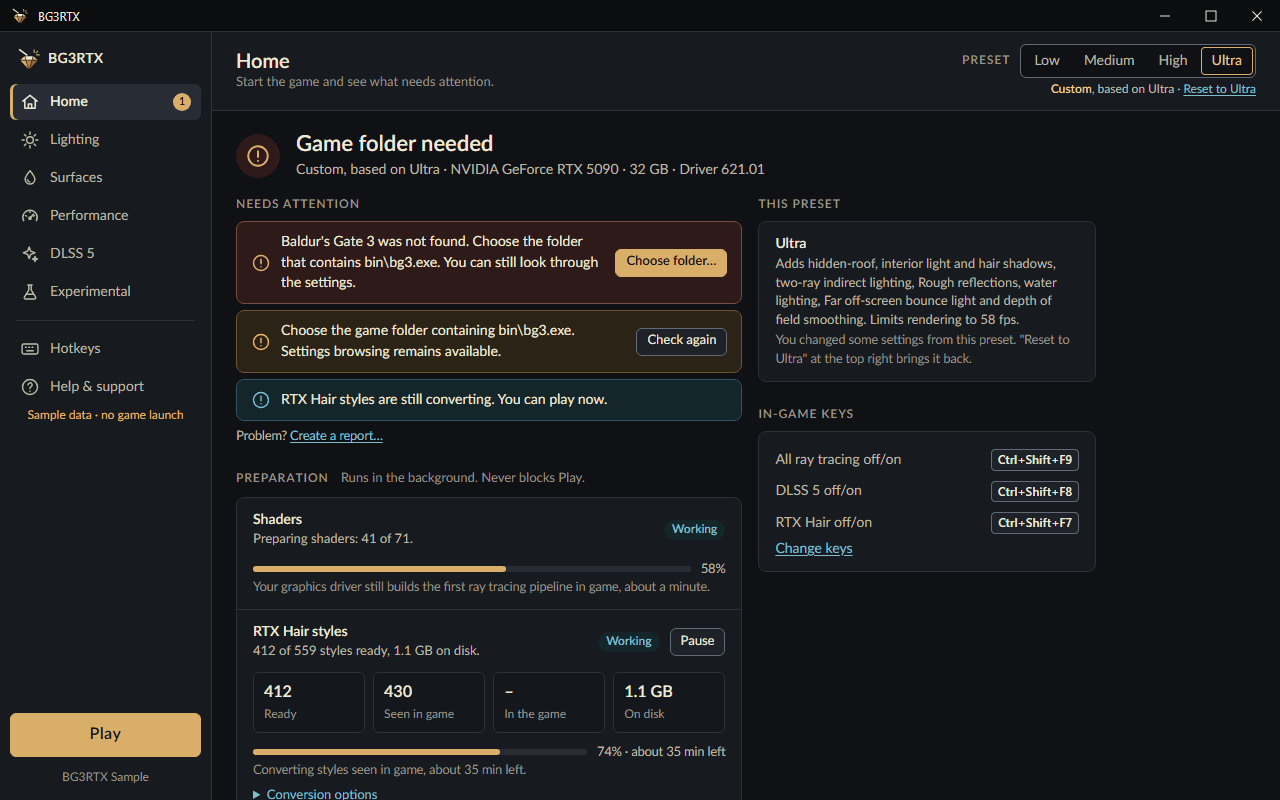
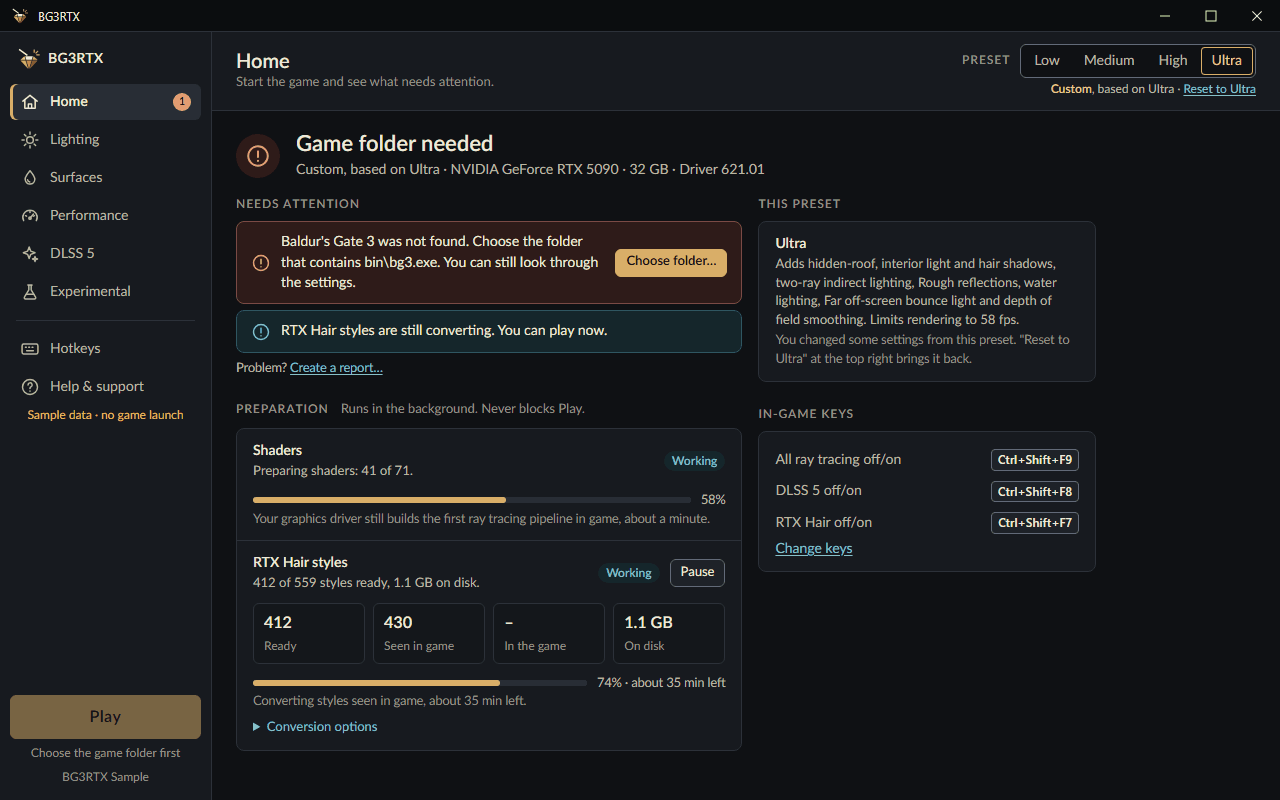
Launcher UI phase 4: keyboard and screen-reader pass, status strip as a live region, docs
One Tab stop per group of choices with arrow keys that move without writing (settings, presets, conversion
options, sidebar with Up and Down), Home and End, Ctrl+Z for Undo. The status strip stays in the accessibility
tree while empty; child rows keep their full name for screen readers; the focused row is marked. Slider
Off/On no longer wraps. LAUNCHER_QA, PROPOSAL and the progress fragment describe the instant-apply launcher.
Full build.ps1 -Test: 226 of 226.

Changed region(s): [[0.1875, 0.4062, 0.5938, 1.0], [0.0, 0.8438, 0.1562, 0.9688], [0.5312, 0.5625, 0.5625, 0.5938]]

diff --git a/tools/launcher/ui/app.js b/tools/launcher/ui/app.js
@@ -89,12 +89,21 @@ const hotkeyFor={dlss5_nr:'hotkey_dlss5',exp_hair_groom_primary:'hotkey_rtx_hair
 const hotkeyName=id=>(hotkeyInfo[id]||[id])[0];
 function openSection(id,focus,select) {section=id;if(select)selected[id]=select;render(state);$('main').scrollTop=0;if(focus)$(focus)?.focus?.();}
 function el(tag, className, text) { const e=document.createElement(tag);if(className)e.className=className;if(text!==undefined)e.textContent=text;return e; }
-function send(type, extra={}) { if(sample) { $('changes').hidden=false;$('status').textContent='Sample preview: actions do not change settings or launch the game';return; } window.chrome?.webview?.postMessage({type,...extra}); }
+function send(type, extra={}) { if(sample) { $('changes').className='';$('status').textContent='Sample preview: actions do not change settings or launch the game';return; } window.chrome?.webview?.postMessage({type,...extra}); }
 function measured(text) {return !!text && !/unknown|not measured|not detected|unavailable/i.test(text);}
 function pill(text,kind) {return el('span','pill '+(kind||''),text);}
 function badge(text,kind,title) {const b=el('span','badge'+(kind?' '+kind:''),text);if(title)b.title=title;return b;}
 function linkButton(id,text,fn) {const b=el('button','btn link-btn',text);b.id=id;b.onclick=fn;return b;}
 function showDialog(d) {if(!d.open)d.showModal();}
+// Keyboard: one Tab stop per group of choices (the current choice); the arrow keys move between the choices and
+// Enter or Space chooses. Moving never writes a setting.
+function rove(group,vertical) {
+ const buttons=[...group.querySelectorAll('button')];
+ const current=buttons.find(b=>/(^| )(on|base)( |$)/.test(b.className||'')&&!b.disabled)||buttons.find(b=>!b.disabled);
+ buttons.forEach(b=>{b.tabIndex=b===current?0:-1;
+  b.onkeydown=e=>{const step=(vertical?{ArrowDown:1,ArrowUp:-1}:{ArrowRight:1,ArrowDown:1,ArrowLeft:-1,ArrowUp:-1})[e.key]||(e.key==='Home'?'first':e.key==='End'?'last':0);if(!step)return;e.preventDefault();
+   const live=buttons.filter(x=>!x.disabled),next=step==='first'?live[0]:step==='last'?live[live.length-1]:live[(live.indexOf(b)+step+live.length)%live.length];if(next)next.focus();};});
+}
 const releaseOptIn=()=>!!state&&!state.developer&&!!state.experimental;
 const awaiting=ch=>/experimental|awaiting/.test(ch.maturity||'');
 // A release setting whose every choice above the first is unqualified belongs on the Experimental page (Low-latency
@@ -148,7 +157,7 @@ function choiceControl(s,control,describedBy) {
  s.choices.forEach(ch=>{const text=plainLabel(s,ch.label),on=ch.value===s.value,b=el('button',on?'on':'',text);b.disabled=ch.enabled===false;b.title=[ch.apply,ch.reason].filter(Boolean).join('. ');b.setAttribute('aria-label',text+'; '+ch.apply);b.setAttribute('aria-pressed',on?'true':'false');b.onclick=()=>send('set',{id:s.id,value:ch.value});seg.append(b);});
  control.className+=' choices';
  if(s.value<0)control.append(el('span','help-copy','Custom value kept'));
- control.append(seg);
+ control.append(seg);rove(seg);
 }
 // The control of one setting and its unmet-requirements line. Ids are control-<id>-<n>.
 function settingControl(s) {
@@ -160,7 +169,7 @@ function settingControl(s) {
   choiceControl(s,control,needs.id);
  } else if(s.min!==undefined&&s.max>s.min) {
   const isOff=s.hasOff&&s.value===0;
-  if(s.hasOff){const seg=el('div','seg');seg.setAttribute('role','group');seg.setAttribute('aria-label',name);const off=el('button',isOff?'on':'','Off');off.setAttribute('aria-pressed',String(isOff));off.onclick=()=>send('set',{id:s.id,value:0});const on=el('button',!isOff?'on':'','On');on.setAttribute('aria-pressed',String(!isOff));on.onclick=()=>send('set',{id:s.id,value:isOff?s.min:s.value});seg.append(off,on);control.append(seg);}
+  if(s.hasOff){const seg=el('div','seg');seg.setAttribute('role','group');seg.setAttribute('aria-label',name);const off=el('button',isOff?'on':'','Off');off.setAttribute('aria-pressed',String(isOff));off.onclick=()=>send('set',{id:s.id,value:0});const on=el('button',!isOff?'on':'','On');on.setAttribute('aria-pressed',String(!isOff));on.onclick=()=>send('set',{id:s.id,value:isOff?s.min:s.value});seg.append(off,on);control.append(seg);rove(seg);}
   const valueText=value=>String(value)+(s.unit?(s.unit==='%'?'':' ')+s.unit:'');
   // The value follows the thumb; the setting is sent once, when the thumb is released (change), not while dragging.
   const i=el('input');i.type='range';i.min=s.min;i.max=s.max;i.step=s.step||1;i.value=isOff?s.min:s.value;i.disabled=isOff;i.setAttribute('aria-label',name);i.setAttribute('aria-valuetext',isOff?'Off':valueText(s.value));const out=el('output','range-value',isOff?'Off':valueText(s.value));i.oninput=()=>{out.textContent=valueText(i.value);i.setAttribute('aria-valuetext',valueText(i.value));};i.onchange=()=>send('set',{id:s.id,value:Number(i.value)});control.className+=' range';control.append(i,out);
@@ -242,7 +251,7 @@ function runtimeFile(s) {
 // A group: small caps heading and one panel. `collapsed` groups are a disclosure that remembers its state.
 function group(title,lead,children,opts={}) {
  const box=el('div','rows');box.append(...children);
- if(opts.collapsed){const d=el('details','group'),sum=el('summary');d.id='group-'+(opts.id||title);sum.id='group-summary-'+(opts.id||title);sum.append(el('h2','group-title',title));if(lead)sum.append(el('span','group-lead',lead));restoreDisclosure(d,opts.open);d.append(sum,box);return d;}
+ if(opts.collapsed){const d=el('details','group'),sum=el('summary');const slug=String(opts.id||title).replace(/[^A-Za-z0-9]+/g,'-');d.id='group-'+slug;sum.id='group-summary-'+slug;sum.append(el('h2','group-title',title));if(lead)sum.append(el('span','group-lead',lead));restoreDisclosure(d,opts.open);d.append(sum,box);return d;}
  const g=el('section','group'),head=el('div','group-head');head.append(el('h2','group-title',title));if(lead)head.append(el('p','group-lead',lead));
  if(opts.id)g.id=opts.id;g.append(head,box);return g;
 }
@@ -359,7 +368,7 @@ function hairJob(prep) {
  const why=el('p','needs');why.id='prep-source-reason';why.append(icon('Needs'),el('span','',reason));why.hidden=!reason||all;
  [['Styles seen in game',0],['All styles',1]].forEach(([label,value])=>{const on=all===!!value,b=el('button',on?'on':'',label);b.id='prep-source-'+value;b.setAttribute('aria-pressed',String(on));b.setAttribute('aria-describedby',why.id);
   if(value&&reason&&!all){b.disabled=true;b.title=reason;}b.onclick=()=>send('prep',{action:'convertAll',value});seg.append(b);});
- const srcRow=el('div','option-row');srcRow.append(seg);src.append(srcLabel,srcRow,why);
+ rove(seg);const srcRow=el('div','option-row');srcRow.append(seg);src.append(srcLabel,srcRow,why);
  // granny2.dll: the player's own copy; never shipped.
  const g=prep.granny||{},dll=el('div','granny');dll.id='prep-granny';
  const path=el('p','path',g.path?g.path:'granny2.dll: not chosen');path.id='prep-granny-path';
@@ -373,7 +382,7 @@ function hairJob(prep) {
  const when=el('div','option-group'),whenLabel=el('span','option-label','When to convert');whenLabel.id='prep-when-label';
  const ws=el('div','seg prep-when');ws.setAttribute('role','group');ws.setAttribute('aria-labelledby',whenLabel.id);
  [['Game closed',0],['Also while playing',1]].forEach(([label,value])=>{const on=!!prep.whilePlaying===!!value,b=el('button',on?'on':'',label);b.id='prep-when-'+value;b.setAttribute('aria-pressed',on?'true':'false');b.onclick=()=>send('prep',{action:'whilePlaying',value});ws.append(b);});
- const whenRow=el('div','option-row');whenRow.append(ws);when.append(whenLabel,whenRow,el('p','cost','While playing, it uses one core at low priority.'));opts.append(when);
+ rove(ws);const whenRow=el('div','option-row');whenRow.append(ws);when.append(whenLabel,whenRow,el('p','cost','While playing, it uses one core at low priority.'));opts.append(when);
  box.append(opts);
  return box;
 }
@@ -390,6 +399,7 @@ function shaderJob(prep) {
 function presetButtons(root) {
  root.replaceChildren();
  ['Low','Medium','High','Ultra'].forEach((name,index)=>{const on=state.preset===index,b=el('button',on?(state.custom?'base':'on'):'',name);b.id='preset-'+index;b.setAttribute('aria-pressed',on&&!state.custom?'true':'false');b.title=[state.presetDescriptions?.[index],index===state.recommendedPreset?'Suggested for this GPU; performance varies.':''].filter(Boolean).join('\n');b.onclick=()=>send('preset',{value:index});root.append(b);});
+ rove(root);
  const note=$('preset-note');note.replaceChildren();
  const name=['Low','Medium','High','Ultra'][state.preset]||'';
  if(state.custom){const c=el('span','custom-preset','Custom');c.setAttribute('aria-label','Custom settings');note.append(c,el('span','',', based on '+name+' · '),linkButton('preset-reset','Reset to '+name,()=>send('preset',{value:state.preset})));}
@@ -513,6 +523,7 @@ function renderNavigation() {
   if(id==='Home'&&state.gamePath===''){const n=el('span','nav-count','1');n.title='1 problem';b.append(n);}
   else if(id==='Home'&&busy){const d=el('span','nav-dot');d.title='Preparation is running';b.append(d);}
   b.onclick=()=>openSection(id);nav.append(b);});
+ rove(nav,true);
  if(sample)nav.append(el('div','sample-label','Sample data · no game launch'));
 }
 function render(next) {
@@ -543,7 +554,7 @@ function render(next) {
 function renderFooter() {
  const n=state.notice||{},also=(n.also||[]).length?' Also changed: '+n.also.join('; ')+'.':'';
  const text=n.text?n.text+'.'+also:state.status||'';
- $('changes').hidden=!text;$('status').textContent=text;
+ $('changes').className=text?'':'idle';$('status').textContent=text;
  $('undo').hidden=!n.undo;$('dismiss').hidden=!n.text;
 }
 function renderReport() {
@@ -551,12 +562,15 @@ function renderReport() {
  const root=$('report-preview'),notice=state.status&&/report|package/i.test(state.status)?state.status:'';
  const signature=JSON.stringify([r,notice]);if(signature===reportSignature){showDialog(d);return;}reportSignature=signature;rememberDisclosures(root);root.replaceChildren();if(r.message)root.append(el('p','help-copy',r.message));if(state.status&&/report|package/i.test(state.status))root.append(el('p','notice',state.status));const files=r.files||[];if(files.length){root.append(el('h3','','Preview · '+files.length+' files · '+(r.bytes||0).toLocaleString()+' bytes'));const ul=el('ul','report-list');files.forEach(f=>{const li=el('li');li.append(el('b','',f.name+' · '+f.size.toLocaleString()+' bytes'));if(f.note)li.append(el('p','',f.note));if(f.binary){ul.append(li);return;}const details=el('details'),summary=el('summary','','View file contents');details.id='report-file-'+encodeURIComponent(f.name);summary.id='report-summary-'+encodeURIComponent(f.name);restoreDisclosure(details);details.append(summary,el('pre','',f.text||''));li.append(details);ul.append(li);});root.append(ul);}$('export-report').hidden=!files.length;$('prepare-report').textContent=files.length?'Refresh preview':'Preview files';showDialog(d);
 }
-$('undo').onclick=()=>send('undo');$('dismiss').onclick=()=>send('dismiss');$('play').onclick=()=>send('play');
+$('undo').onclick=()=>send('undo');$('undo').title='Undo the last change (Ctrl+Z)';
+// Ctrl+Z undoes the last change while the bridge offers it (not inside a text field).
+if(document.addEventListener)document.addEventListener('keydown',e=>{if((e.ctrlKey||e.metaKey)&&!e.shiftKey&&!e.altKey&&String(e.key).toLowerCase()==='z'&&state?.notice?.undo&&!/^(text|textarea)$/i.test(e.target?.type||'')&&!$('report-dialog').open){e.preventDefault();send('undo');}});
+$('dismiss').onclick=()=>send('dismiss');$('play').onclick=()=>send('play');
 $('close-report').onclick=()=>{$('report-dialog').close();send('closeReport');};$('report-dialog').addEventListener('cancel',()=>send('closeReport'));$('prepare-report').onclick=()=>{if(!sample){$('report-progress').hidden=false;$('report-progress').textContent='Preparing report…';$('cancel-report').hidden=false;$('prepare-report').disabled=true;}send('prepareReport',{issue:$('issue').value,logs:$('include-logs').checked,settings:$('include-settings').checked,system:$('include-system').checked,save:!!$('include-save').checked});};$('cancel-report').onclick=()=>send('cancelReport');$('export-report').onclick=()=>send('exportReport');
 window.chrome?.webview?.addEventListener('message',e=>{const data=typeof e.data==='string'?JSON.parse(e.data):e.data;if(data.type==='state'){render(data);if(sample)reviewView(true);}else if(data.type==='progress'){$('report-progress').hidden=false;$('report-progress').textContent='Preparing report: '+data.done+' / '+data.total;$('cancel-report').hidden=false;}});
 // Review views (--screenshot-view) adjust the sample, or the host's review state, before rendering again.
 function reviewView(host) {
- {if(sampleView==='error')state.writeError={text:'Settings not saved. Nothing was changed.\nThe file is in use by another application (Windows error 32). Close it and try again.',retry:true};if(sampleView==='notice'){state.settings.find(s=>s.id==='exp_hair_groom_primary').value=0;}if(sampleView==='notice')state.notice={text:'RTX Hair: On \u2192 Off',also:['Strand hair edge resolve: Analytic coverage \u2192 Off'],anchor:'exp_hair_groom_primary',undo:true};if(sampleView==='missing'&&!host){state.gamePath='';state.compatibility.warnings=['Choose the game folder containing bin\\bg3.exe. Settings browsing remains available.'];}if(sampleView==='probe'&&!host){state.compatibility={gpu:'Graphics unknown',vram:'Unknown',driver:'Unknown',warnings:['Graphics compatibility could not be checked. Recheck graphics or choose an adapter in Help & support.'],adapters:[{value:0,label:'Discrete graphics adapter'},{value:1,label:'Integrated graphics adapter'}],selected:-1};}render(state);}
+ {if(sampleView==='error')state.writeError={text:'Settings not saved. Nothing was changed.\nThe file is in use by another application (Windows error 32). Close it and try again.',retry:true};if(sampleView==='notice'){state.settings.find(s=>s.id==='exp_hair_groom_primary').value=0;}if(sampleView==='notice')state.notice={text:'RTX Hair: On \u2192 Off',also:['Strand hair edge resolve: Analytic coverage \u2192 Off'],anchor:'exp_hair_groom_primary',undo:true};if(sampleView==='missing'&&!host){state.gamePath='';state.canPlay=false;}if(sampleView==='probe'&&!host){state.compatibility={gpu:'Graphics unknown',vram:'Unknown',driver:'Unknown',warnings:['Graphics compatibility could not be checked. Recheck graphics or choose an adapter in Help & support.'],adapters:[{value:0,label:'Discrete graphics adapter'},{value:1,label:'Integrated graphics adapter'}],selected:-1};}render(state);}
  if(sampleView==='restart'){state.restartNeeded=true;state.restartCount=2;state.restartNames=['Hair shadows','Water lighting'];state.restartBanner='Restart the game to apply: Hair shadows, Water lighting.';state.notice={text:'Water lighting: Off \u2192 Reflections (after a game restart)',also:[],anchor:'exp_water',undo:true};render(state);}
  if((query.has('report')||sampleView==='report')&&!state.report?.files?.length){state.report={visible:true,privacy:'Creates a ZIP on your PC with BG3RTX logs, graphics settings, version and system graphics details. Logs may contain file paths. We remove common personal path details, but you should review the files before sharing. Nothing is uploaded. Screenshots and crash dumps are excluded; your latest save is added only if you tick it.',files:[{name:'CONTENTS.txt',size:248,text:'Sample preview only. No files have been collected.'},{name:'graphics.txt',size:112,text:'Sample adapter: NVIDIA GeForce RTX 5090\nDriver: 621.01\nAdapter used by the game: unconfirmed'}],bytes:360};renderReport();}
  if(sampleView==='experimental'||query.has('bottom'))$('main').scrollTop=$('main').scrollHeight;

diff --git a/tests/launcher_ui_test.js b/tests/launcher_ui_test.js
@@ -66,13 +66,13 @@ render(fixture);
  const source=fs.readFileSync('tools/launcher/ui/app.js','utf8');
  for(const gone of ["send('save'","send('discard'","send('confirm'","send('cancel'","unsavedCount","state.preview"])assert(!source.includes(gone),gone+' left in app.js');
  // Nothing to say: the status strip is hidden. A message from the bridge shows it, without Undo.
- render({...fixture,status:''});assert(ids.get('changes').hidden,'status strip hidden when there is nothing to say');
- render({...fixture,status:'Report saved on your PC.'});assert(!ids.get('changes').hidden&&ids.get('status').textContent==='Report saved on your PC.'&&ids.get('undo').hidden&&ids.get('dismiss').hidden);
+ render({...fixture,status:''});assert.strictEqual(ids.get('changes').className,'idle','status strip out of sight when there is nothing to say');
+ render({...fixture,status:'Report saved on your PC.'});assert(ids.get('changes').className===''&&ids.get('status').textContent==='Report saved on your PC.'&&ids.get('undo').hidden&&ids.get('dismiss').hidden);
  // A change: what changed, what changed with it, Undo and Dismiss; the same list sits in the row that was clicked.
  const notice={text:'RTX Hair: On → Off',also:['Strand hair edge resolve: Analytic coverage → Off'],anchor:'exp_hair_groom_primary',undo:true};
  render({...fixture,status:'',notice});
  assert.strictEqual(ids.get('status').textContent,'RTX Hair: On → Off. Also changed: Strand hair edge resolve: Analytic coverage → Off.');
- assert(!ids.get('changes').hidden&&!ids.get('undo').hidden&&!ids.get('dismiss').hidden);
+ assert(ids.get('changes').className===''&&!ids.get('undo').hidden&&!ids.get('dismiss').hidden);
  ids.get('undo').onclick();assert.deepStrictEqual(msg(),{type:'undo'});
  ids.get('dismiss').onclick();assert.deepStrictEqual(msg(),{type:'dismiss'});
  go('Lighting');
@@ -228,6 +228,30 @@ for(const id of ['box_lights','exp_hidden_surface','hair_distant_detail','hair_m
  assert(ids.get('hotkey_rtx_hair'),'RTX Hair hotkey on the Hotkeys page');
  render(fixture);go('Lighting');
 }
+// Keyboard: a group of choices is one Tab stop (the current choice); arrows move focus between choices without
+// writing; Home and End jump; a disabled choice is skipped. The navigation works the same with Up and Down.
+{
+ const gi=fixture.settings.find(s=>s.id==='gi'),buttons=ids.get('card-gi').querySelectorAll('button').filter(b=>/^control-gi-/.test(b.id));
+ assert.deepStrictEqual(buttons.map(b=>b.tabIndex),buttons.map((_,i)=>i===gi.value?0:-1),'one Tab stop per group');
+ const key=k=>({key:k,preventDefault(){}});let before=sent.length;
+ buttons[gi.value].focus();buttons[gi.value].onkeydown(key('ArrowRight'));
+ assert.strictEqual(document.activeElement,buttons[(gi.value+1)%buttons.length]);
+ document.activeElement.onkeydown(key('ArrowLeft'));assert.strictEqual(document.activeElement,buttons[gi.value]);
+ buttons[0].onkeydown(key('ArrowLeft'));assert.strictEqual(document.activeElement,buttons[buttons.length-1],'wraps');
+ buttons[1].onkeydown(key('Home'));assert.strictEqual(document.activeElement,buttons[0]);buttons[0].onkeydown(key('End'));assert.strictEqual(document.activeElement,buttons[buttons.length-1]);
+ assert.strictEqual(sent.length,before,'moving between choices writes nothing');
+ render({...fixture,settings:fixture.settings.map(s=>s.id==='gi'?{...s,value:0,choices:s.choices.map((c,i)=>({...c,enabled:i!==1}))}:s)});
+ const limited=ids.get('card-gi').querySelectorAll('button').filter(b=>/^control-gi-/.test(b.id));
+ limited[0].onkeydown(key('ArrowRight'));assert.strictEqual(document.activeElement,limited[2],'a disabled choice is skipped');
+ render(fixture);
+ const presets=ids.get('presets').children;assert.deepStrictEqual(presets.map(b=>b.tabIndex),presets.map((_,i)=>i===fixture.preset?0:-1));
+ const nav=ids.get('navigation').children.filter(e=>e.tagName==='button');
+ assert.deepStrictEqual(nav.map(b=>b.tabIndex),nav.map(b=>b.id==='nav-Lighting'?0:-1));
+ ids.get('nav-Lighting').onkeydown(key('ArrowDown'));assert.strictEqual(document.activeElement,ids.get('nav-Surfaces'));
+ ids.get('nav-Surfaces').onkeydown(key('ArrowRight'));assert.strictEqual(document.activeElement,ids.get('nav-Surfaces'),'the sidebar uses Up and Down only');
+ assert(/Ctrl\+Z/.test(ids.get('undo').title));
+ document.activeElement=null;
+}
 // The detail panel shows the selected row; selecting another row does not rebuild the page.
 {
  const first=ids.get('card-rt_geometry');assert(/selected/.test(first.className),'the first row is selected');
@@ -258,9 +282,9 @@ for(const id of ['box_lights','exp_hidden_surface','hair_distant_detail','hair_m
 go('Performance');
 {
  assert.deepStrictEqual(page().filter(e=>e.className==='group-title').map(e=>e.textContent),['Frame rate','Tracing speed']);
- const d=ids.get('group-Tracing speed');assert(d&&d.tagName==='details'&&!d.open,'Tracing speed starts collapsed');
+ const d=ids.get('group-Tracing-speed');assert(d&&d.tagName==='details'&&!d.open,'Tracing speed starts collapsed');
  assert(all(d).includes(ids.get('card-exp_gi_rt_pipeline'))&&/\bchild\b/.test(ids.get('card-exp_gi_rt_pipeline_reorder').className));
- d.open=true;render(fixture);assert(ids.get('group-Tracing speed').open,'disclosure collapsed on bridge update');
+ d.open=true;render(fixture);assert(ids.get('group-Tracing-speed').open,'disclosure collapsed on bridge update');
  assert(onPage('experimental-pointer')&&/hidden/.test(text(ids.get('experimental-pointer'))),'the page says where its experimental options are');
  ids.get('experimental-open').onclick();assert.strictEqual(ids.get('nav-Experimental').attributes['aria-current'],'page');
 }

diff --git a/tools/launcher/ui/index.html b/tools/launcher/ui/index.html
@@ -11,7 +11,7 @@
 <header id="header"><div class="page-head"><h1 id="page-title"></h1><p id="page-lead"></p></div><div class="preset-block"><div class="preset-group"><span class="label" id="preset-label">Preset</span><div id="presets" class="presets seg" role="group" aria-labelledby="preset-label"></div></div><p id="preset-note"></p></div></header>
 <div id="warnings"></div>
 <div class="body" id="body-grid"><main id="main" tabindex="-1"><div id="section-content"></div></main><aside id="detail" aria-label="Details of the selected setting"></aside></div>
-<footer id="changes" hidden><div class="status" role="status" aria-live="polite"><span class="dot" aria-hidden="true"></span><span id="status">Loading settings…</span></div><button id="undo" class="btn small" hidden>Undo</button><button id="dismiss" class="btn small" hidden>Dismiss</button></footer>
+<footer id="changes" class="idle"><div class="status" role="status" aria-live="polite"><span class="dot" aria-hidden="true"></span><span id="status">Loading settings…</span></div><button id="undo" class="btn small" hidden>Undo</button><button id="dismiss" class="btn small" hidden>Dismiss</button></footer>
 </div></div>
 <dialog id="report-dialog" aria-labelledby="report-title"><h2 id="report-title">Report a problem</h2><p id="privacy"></p><p id="logging-hint" class="help-copy" hidden></p><div id="report-request"><label for="issue">What happened? <span class="help-copy">(optional)</span></label><textarea id="issue" maxlength="4000" placeholder="Tell us what you were doing and what went wrong."></textarea><div class="contents"><label><input id="include-logs" type="checkbox" checked> Logs</label><label><input id="include-settings" type="checkbox" checked> Graphics settings</label><label><input id="include-system" type="checkbox" checked> Graphics hardware</label></div><label class="save-option"><input id="include-save" type="checkbox"> Include my latest save (helps reproduce the problem; contains your character and progress)</label></div><p id="report-progress" role="status" aria-live="polite" hidden></p><div id="report-preview"></div><div class="dialog-actions"><button class="btn" id="cancel-report" hidden>Cancel</button><button class="btn" id="close-report">Close</button><button class="btn primary" id="prepare-report">Preview files</button><button class="btn primary" id="export-report" hidden>Save report…</button></div></dialog>
 </body></html>

diff --git a/tools/launcher/ui/app.css b/tools/launcher/ui/app.css
@@ -41,6 +41,8 @@ button:disabled { cursor: not-allowed; }
 h1, h2, h3, h4, p, ul, dl, dd { margin: 0; padding: 0; }
 ul { list-style: none; }
 :is(button,a,summary,select,textarea,input,.row):focus-visible { outline: 2px solid var(--teal); outline-offset: 2px; }
+/* Keyboard users see which row the detail panel describes. */
+.row:focus-within { box-shadow: inset 2px 0 0 var(--teal); }
 kbd { display: inline-block; padding: 2px 6px; border: 1px solid var(--line); border-radius: 4px; background: var(--panel-hi); font: 600 12px/1.3 "Segoe UI", sans-serif; white-space: nowrap; }
 
 /* Window: optional title-bar preview, sidebar, main column (header, banners, content with detail panel, status). */
@@ -122,6 +124,7 @@ option { background: var(--panel); color: var(--text); }
 .toggle:has(input:disabled) { opacity: .5; }
 .toggle-state { min-width: 22px; color: var(--text-2); }
 .control.range { flex-wrap: nowrap; }
+.control.range .seg { flex: none; flex-wrap: nowrap; }
 .control.range input[type=range] { flex: 0 1 150px; min-width: 80px; height: 28px; margin: 0; accent-color: var(--gold); }
 .range-value { flex: none; min-width: 52px; color: var(--text); font-variant-numeric: tabular-nums; text-align: right; }
 
@@ -257,6 +260,8 @@ details.options > summary { width: fit-content; color: var(--teal); font-size: 1
 /* Status strip at the bottom of the main column */
 footer { display: flex; flex-wrap: wrap; align-items: center; gap: 10px; padding: 10px 24px; background: var(--panel-hi); border-top: 1px solid var(--line-soft); }
 footer > * { min-width: 0; }
+/* Nothing to say: out of sight, but the live region stays where a screen reader finds it. */
+footer.idle { position: absolute; width: 1px; height: 1px; padding: 0; border: 0; overflow: hidden; clip-path: inset(50%); }
 .spacer { flex: 1; }
 .status { display: flex; align-items: flex-start; gap: 10px; flex: 1 1 260px; color: var(--text-2); font-size: 13px; overflow-wrap: anywhere; white-space: pre-line; }
 .status .dot { flex: none; width: 8px; height: 8px; margin-top: 6px; border-radius: 50%; background: var(--gold); }

diff --git a/docs/progress/claude-ui-rework.md b/docs/progress/claude-ui-rework.md
@@ -1,28 +1,35 @@
-## Launcher UI rework, Direction A with instant apply (branch claude/ui-rework, in progress, 2026-11-14)
+## Launcher UI rework, Direction A with instant apply (branch claude/ui-rework, ready for review, 2026-11-14)
 
-- User decision 2026-11-14: Direction A; settings apply when clicked (no Save, no review, no unsaved state);
-  dark only; Low-latency scene on the Experimental page. Audit, proposal and mockups: `docs/ui_rework/`.
-- Phase 1 (done): sidebar with Play and version, preset in the header, setting rows in groups with indented
-  children, detail panel (inline below 1100 px), one amber restart badge with its direction, cost chip,
-  Experimental page with its switch, Home reduced to attention plus preparation, Help regrouped.
-- Phase 2 (done): every `set`, preset, hotkey, DLSS 5 runtime and opt-in change is written at once through the
-  save hook (`Bridge::commit`). Dependencies resolve at the click (`preview_dependencies`, `lower_dependents`
-  unchanged in settings.h): the reply names what else changed (`notice.also`), shown in the clicked row and
-  in the status strip, with Undo (one write, restores everything the click changed). A dependent lowered with
-  its prerequisite comes back when the prerequisite does (same session only; the file has no memory).
-  A failed write changes nothing and shows a red banner with Retry. Restart indicator by name
-  (`ui_state::restart_names`, `restartNames`), rows carry "Restart pending". Play only launches; a file from
-  an older version that lacks a prerequisite or startup key is completed first and named.
-  Removed: `save`, `confirm`, `cancel`, `discard`, `dirty()`, the review dialog, the close prompt.
-- Behaviour changes to know: an option whose prerequisite cannot be met is refused at the click (it used to
-  be accepted and blocked at Save); `--no-game` review mode shows a write error on every click; the basic
-  fallback window (`ui_product.h`) keeps its own Save.
-- Tests: `launcher_web_bridge_test` (instant apply, dependency apply and undo, remembered dependents, retry,
-  restart names, opt-in off resets Low-latency scene), `launcher_ui_state_test` (names), renderer test
-  (`tests/launcher_ui_test.js`: shell, rows, notice, undo, retry, restart pending, sample data against the
-  table with the opt-in on), JSON test. `build.ps1 -Test -TestRegex "launcher|settings|package"`: 12 of 12.
-- Screenshots of the real UI with sample data (headless Edge): `docs/ui_rework/shots_impl/`.
-- Not done yet: phase 3 (copy pass in settings.h, cost line from the Cost struct, preset values in the detail,
-  the four accepted renames, USER_SETTINGS.md), phase 4 (keyboard pass, ARIA review, fallback wording).
-- How to check: open `tools/launcher/ui/index.html?sample&chrome=1` in a browser (views: `&view=notice`,
-  `restart`, `error`, `missing`, `hairerror`; `&experimental` shows the opt-in options).
+- User decision 2026-11-14: Direction A; a setting applies when clicked (no Save, no review, no unsaved state);
+  dark only; Low-latency scene on the Experimental page. Audit, proposal, mockups: `docs/ui_rework/`.
+- Phase 1, layout: sidebar with Play and version, preset in the header, setting rows in groups with indented
+  children (RTX Hair with Detail at distance and Motion stability; Tracing speed collapsed), detail panel
+  (inline below 1100 px), one amber restart badge with its direction, cost chip, Experimental page with its
+  switch, Home reduced to attention plus preparation, Help regrouped with the version.
+- Phase 2, instant apply: every change is written at once through the save hook (`Bridge::commit`).
+  Dependencies resolve at the click (settings.h logic unchanged); the reply names what else changed, shown in
+  the clicked row and in the status strip with Undo (one write). A dependent lowered with its prerequisite
+  returns with it in the same session only (the file has no memory). A failed write changes nothing and offers
+  Retry. Restart indicator by name, rows carry "Restart pending". Play only launches; a file that lacks a
+  prerequisite or startup key is completed first and named. Removed: save, confirm, cancel, discard,
+  `dirty()`, the review dialog, the close prompt.
+- Phase 3, copy: one benefit line per setting without numbers, cost in the `Cost` struct, the rest in the
+  detail text; "Off" of Detail at distance is "Full"; "(experimental)" dropped from the DLSS 5 label; the
+  bridge sends what each preset sets. Ids, keys and preset values unchanged; defaults check clean; schema
+  regenerated (`bin/settings_test.exe --write-schema`). `docs/USER_SETTINGS.md` rewritten for instant apply.
+- Phase 4, keyboard and screen readers: one Tab stop per group of choices, arrows move without writing,
+  Up/Down in the sidebar, Ctrl+Z undoes, the status strip stays a live region while empty, switches have
+  `role="switch"`, child rows keep their full name for screen readers.
+- Behaviour changes to know: an option whose prerequisite cannot be met is refused at the click (it used to be
+  accepted and blocked at Save); `--no-game` review mode shows a write error on a click; sliders write on
+  release; the basic fallback window (`ui_product.h`) is unchanged and keeps its own Save.
+- Tests: `launcher_web_bridge_test` (instant apply, dependency apply and undo, remembered dependents, failed
+  write and retry, restart names, opt-in off), `launcher_ui_state_test`, `tests/launcher_ui_test.js` (shell,
+  rows, notice, undo, retry, restart pending, keyboard, sample data against the table), JSON test (copy
+  contract). Full `build.ps1 -Test`: 226 of 226 (2026-11-14).
+- Screenshots of the real UI with sample data (headless Edge): `docs/ui_rework/shots_impl/` (17 files).
+- Not done, not verified: nothing was run in the real WebView2 window or with the game (no live); the page
+  was rendered in headless Edge only. Measured GPU cost is still missing for most settings (chip only where
+  the table has a number). The sample after a copy change: `py -3 tools/launcher/sync_ui_sample.py <exe>`.
+- How to check: open `tools/launcher/ui/index.html?sample&chrome=1` in a browser (`&view=notice`, `restart`,
+  `error`, `missing`, `hairerror`; `&experimental` shows the opt-in options). Not merged.

diff --git a/docs/release/LAUNCHER_QA.md b/docs/release/LAUNCHER_QA.md
@@ -1,5 +1,15 @@
 # Release launcher QA - 2026-11-04
 
+> 2026-11-14, branch `claude/ui-rework` (not merged): the WebView launcher applies each change at once. There is no
+> Save, Discard, review dialog or unsaved-changes prompt in the WebView any more; the lines below that name them
+> describe 0.9.6 and the basic fallback window, which keeps Save. New WebView contract: a click is written at
+> once and named in the status strip with Undo (Ctrl+Z); dependencies change at the click and are listed in the
+> row; a failed write changes nothing and offers Retry; "Restart the game to apply: <names>" stays under the
+> header while the game runs with older startup settings. Pages: Home, Lighting, Surfaces, Performance, DLSS 5,
+> Experimental (with its switch), Hotkeys, Help & support. Offline evidence: `launcher_web_bridge_test`,
+> `tests/launcher_ui_test.js`, screenshots in `docs/ui_rework/shots_impl/`. Not yet checked in the real WebView2
+> window or with the game running.
+
 - PASS (offline): 15 release controls, shared metadata, exact choices/ranges and release visibility match CONTROL_CONTRACT.md. Preset values, keys, dependencies and apply transitions are unchanged.
 - PASS (offline): both renderers use the Lighting order below; depth of field and bloom smoothing is on Surfaces. One compact header shows version, preset, GPU and mod-file presence. No total-cost tile or unknown-cost/memory badges.
 - PASS (offline): measured costs appear after descriptions; estimates and separate hair-pass timings are in details. No aggregate rendering-cost or frame-rate claim.

diff --git a/docs/ui_rework/PROPOSAL.md b/docs/ui_rework/PROPOSAL.md
@@ -1,5 +1,11 @@
 # Launcher UI rework: proposal (2026-11-14)
 
+> Decided 2026-11-14 and implemented on this branch: Direction A with **instant apply**. Section 2 rule 5
+> (changes bar, Review, Save) is replaced: a click is written at once, named in a status strip with Undo; no
+> Save, no review, no unsaved state. Rule 3 is implemented as written (at the click, inline, Undo). Options
+> 1, 2 and 4 of section 1 accepted, 3 declined (the name "Low-latency scene" stays). Dark theme only.
+> Section 6 was carried out as four phases; see `docs/progress/claude-ui-rework.md`.
+
 Companion to `AUDIT.md`. Mockups: `mockups/index.html` (Direction A recommended, Direction B alternative).
 No feature is added or removed; options that change behaviour are marked **Option**.
 
